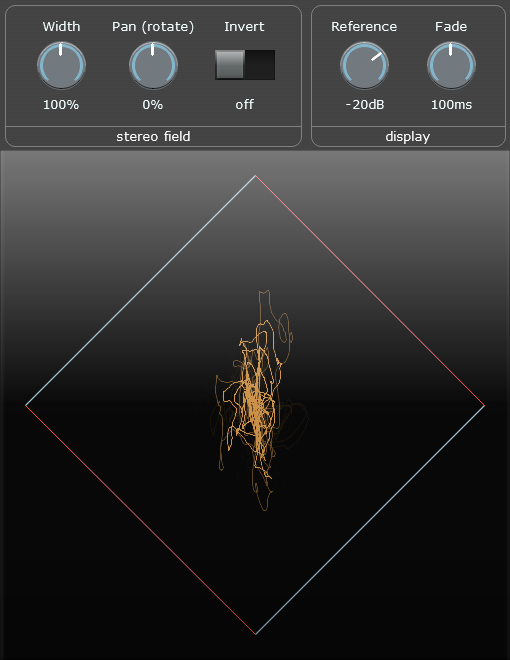
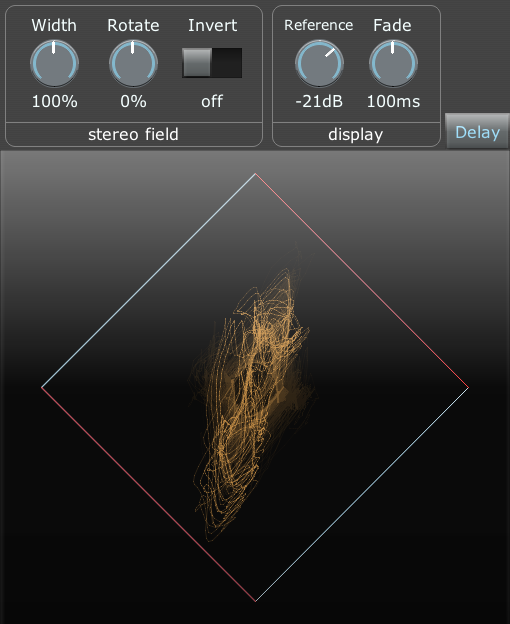
Panalysis delay analysis

diff --git a/index.html b/index.html
@@ -294,6 +294,8 @@ a[href] code {
 <p><img src="Panalysis.png" alt="screenshot"></p>
 <p>It&#39;s possible to rotate the field such that hard-left or hard-right inputs will output &quot;inside out&quot; (opposite phase in both output channels).  In this case, the Width dial will turn red - double-click the dial to reset it to the maximum &quot;safe&quot; width:</p>
 <p><img src="Panalysis 2.png" alt="screenshot"></p>
+<p>It also includes a delay analyser, for when one channel is ahead/behind or out of phase with the other - this can be useful when trying to get phases to agree in a multi-mic setup.</p>
+<p><img src="Panalysis-delay.png" alt="screenshot"></p>
 </div><h2 id="learning-sampler">Learning Sampler</h2><div class="section section2">
 <p>This sampler records samples from the incoming audio when in learning mode (selected by a controller switch), and plays them back when in playback mode.</p>
 <p>To record the samples, set the appropriate controller to a value of 64 or above.  While this controller is down, when you play a MIDI note the sampler will remember the start/end positions in the buffer.  When you have recorded all the samples, reset the controller to 0, and it will enter playback mode.</p>

diff --git a/README.md b/README.md
@@ -117,6 +117,10 @@ It's possible to rotate the field such that hard-left or hard-right inputs will 
 
 ![screenshot](Panalysis 2.png)
 
+It also includes a delay analyser, for when one channel is ahead/behind or out of phase with the other - this can be useful when trying to get phases to agree in a multi-mic setup.
+
+![screenshot](Panalysis-delay.png)
+
 ## Learning Sampler
 
 This sampler records samples from the incoming audio when in learning mode (selected by a controller switch), and plays them back when in playback mode.
